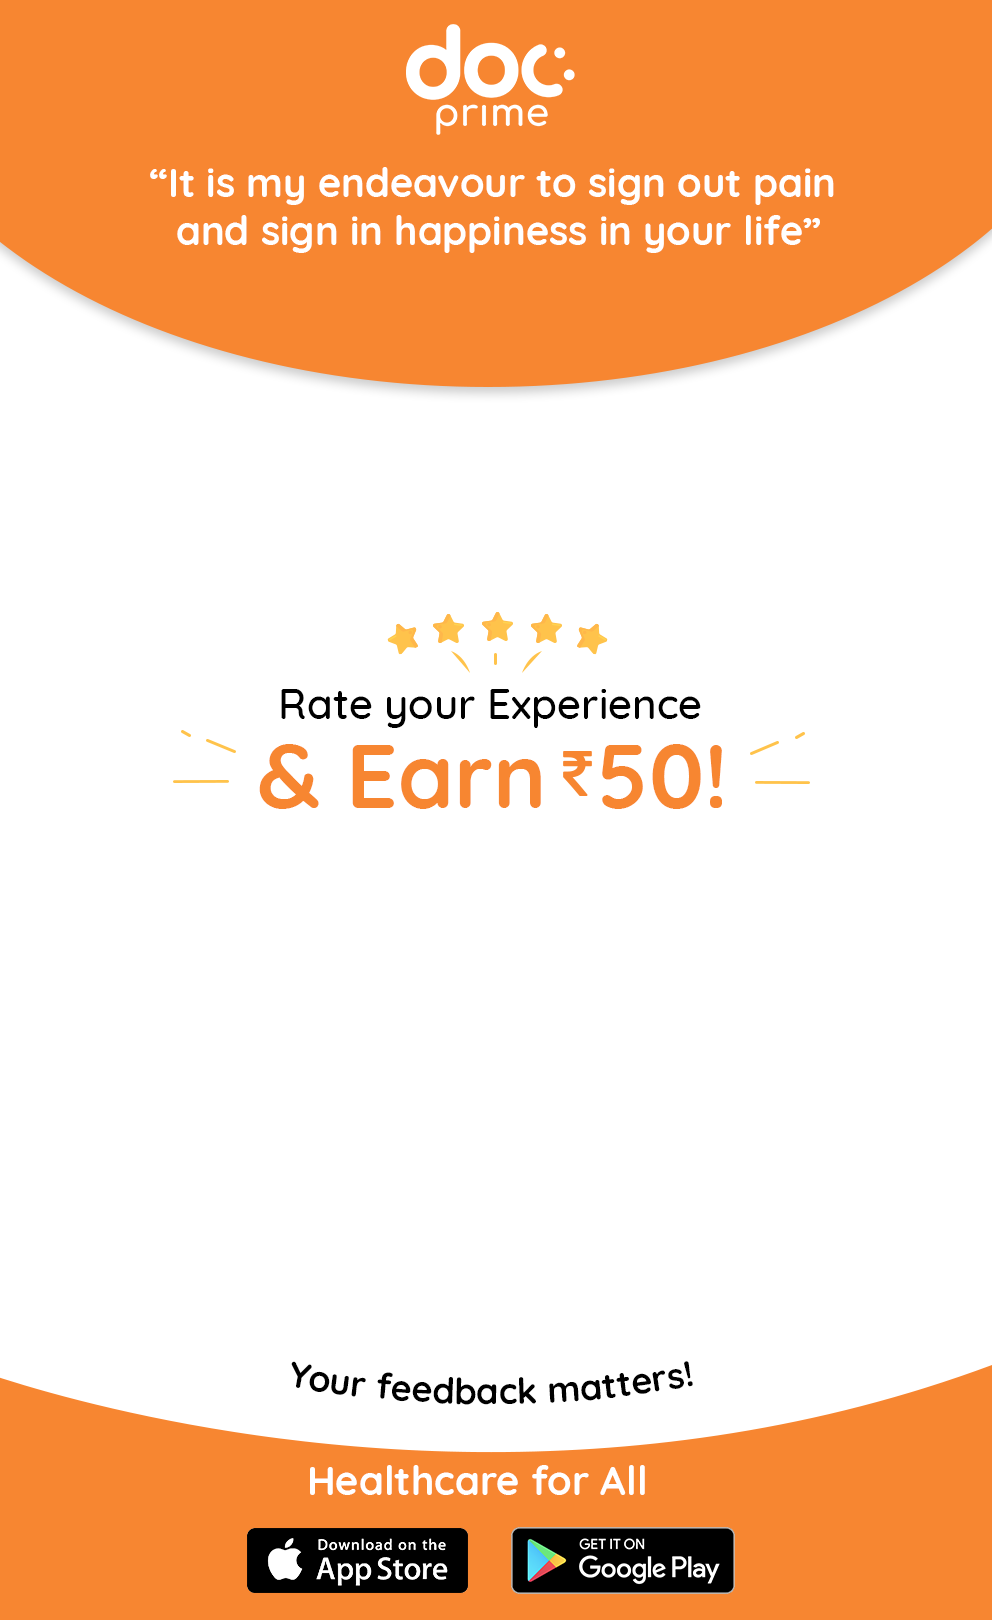
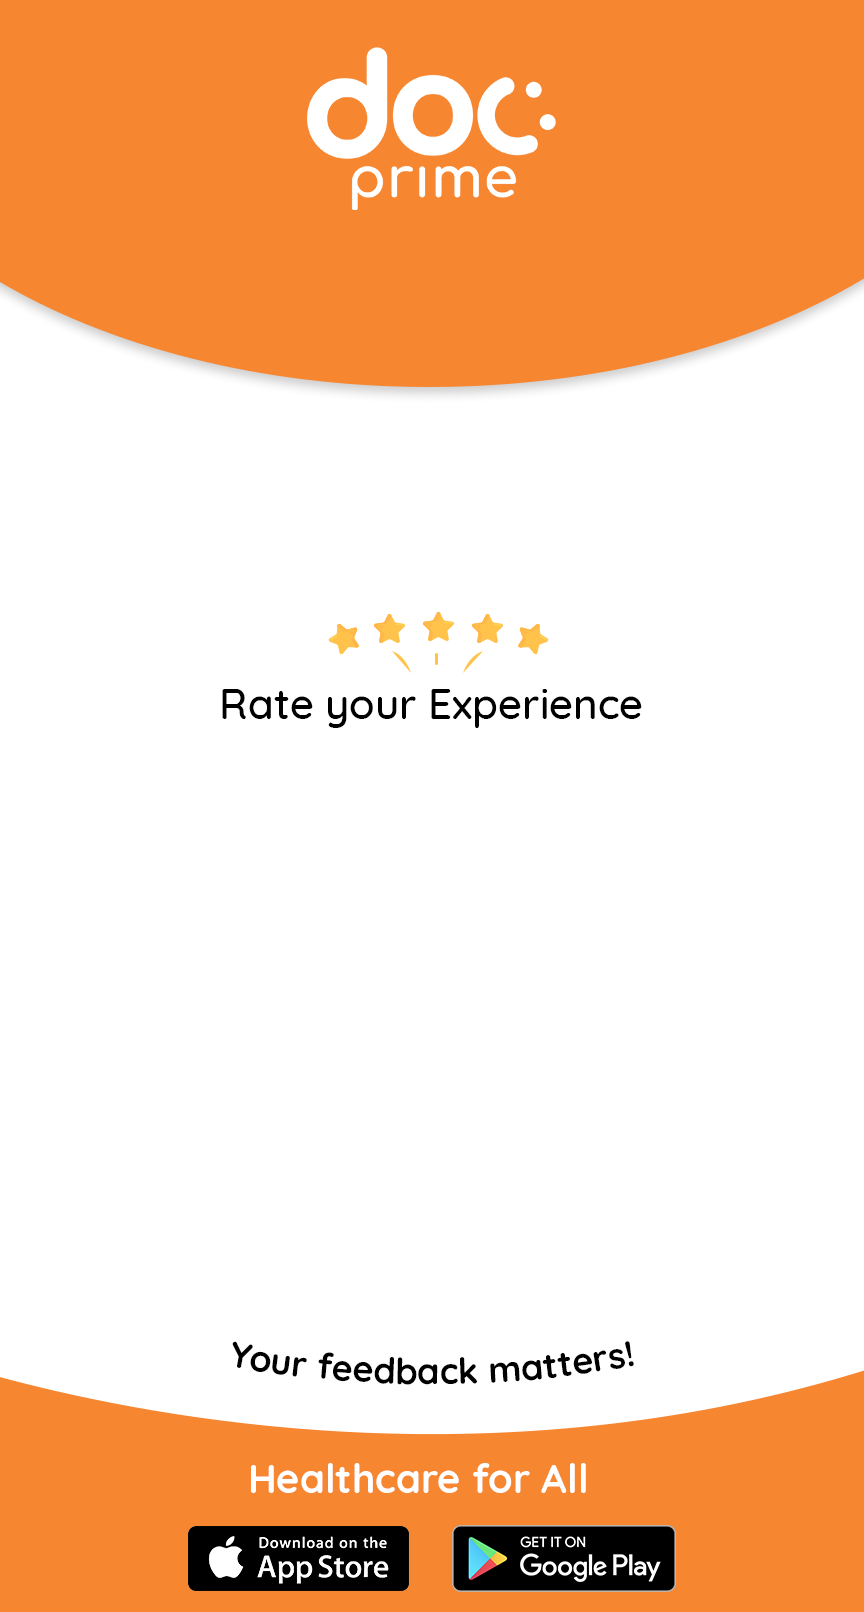
qrcode fixes

diff --git a/ondoc/doctor/models.py b/ondoc/doctor/models.py
@@ -987,13 +987,13 @@ class Doctor(auth_model.TimeStampedModel, auth_model.QCModel, SearchKey, auth_mo
         output = ImageOps.fit(doctor_image, mask.size, centering=(1, 1))
         output.putalpha(mask)
         # output.save('output.png')
-        canvas = Image.new('RGB', (992, 1620))
+        canvas = Image.new('RGB', (892, 1620))
         canvas.paste(template, (0,0))
         # doctor_image = doctor_image.resize((200, 200), Image.ANTIALIAS)
-        canvas.paste(doctor_image, (390, 300), doctor_image)
+        canvas.paste(doctor_image, (315, 300), doctor_image)
         #canvas.save('overlap.png')
         qrcode_image = qrcode_image.resize((530, 530), Image.ANTIALIAS)
-        canvas.paste(qrcode_image, (215, 830))
+        canvas.paste(qrcode_image, (165, 760))
 
         blank_image = Image.new('RGBA', (1000, 1000), 'white') # this new image is created to write text and paste on canvas
         img_draw = ImageDraw.Draw(canvas)
@@ -1003,7 +1003,7 @@ class Doctor(auth_model.TimeStampedModel, auth_model.QCModel, SearchKey, auth_mo
 
         w, h = img_draw.textsize(self.name, font=font)
 
-        img_draw.text(((992-w)/2,530), self.name, fill="black", font=font)
+        img_draw.text(((892-w)/2,530), self.name, fill="black", font=font)
         #img_draw.text((350,530), self.name, fill="black", font=font)
         #im.save("hello.png", "PNG")
 
